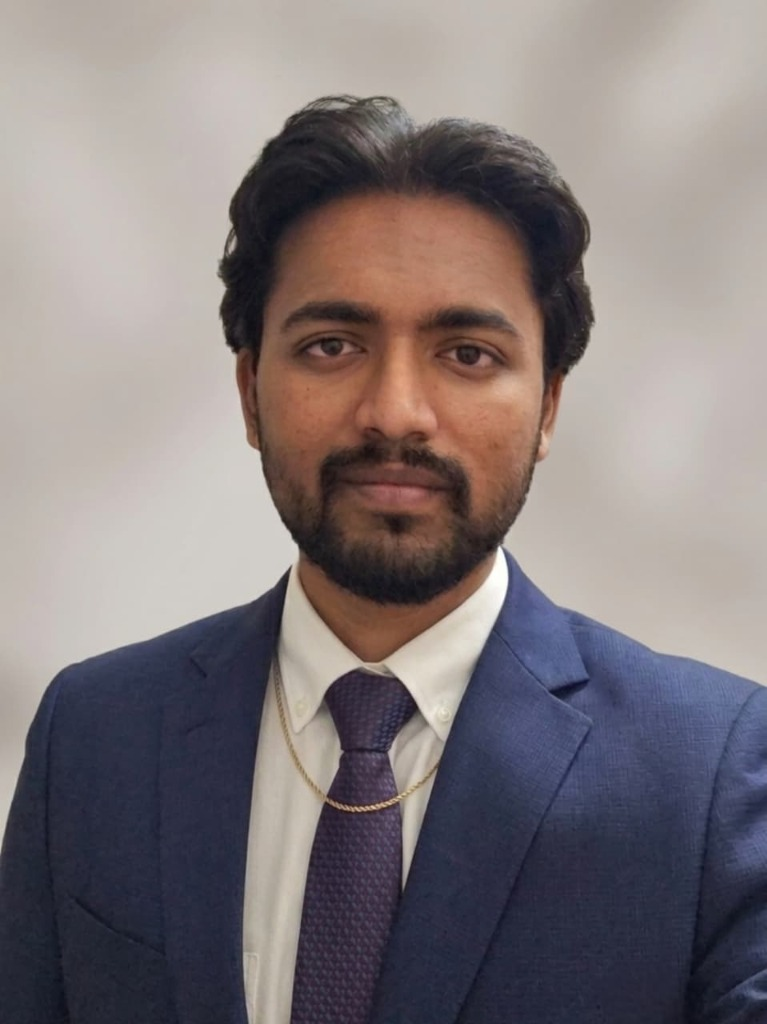
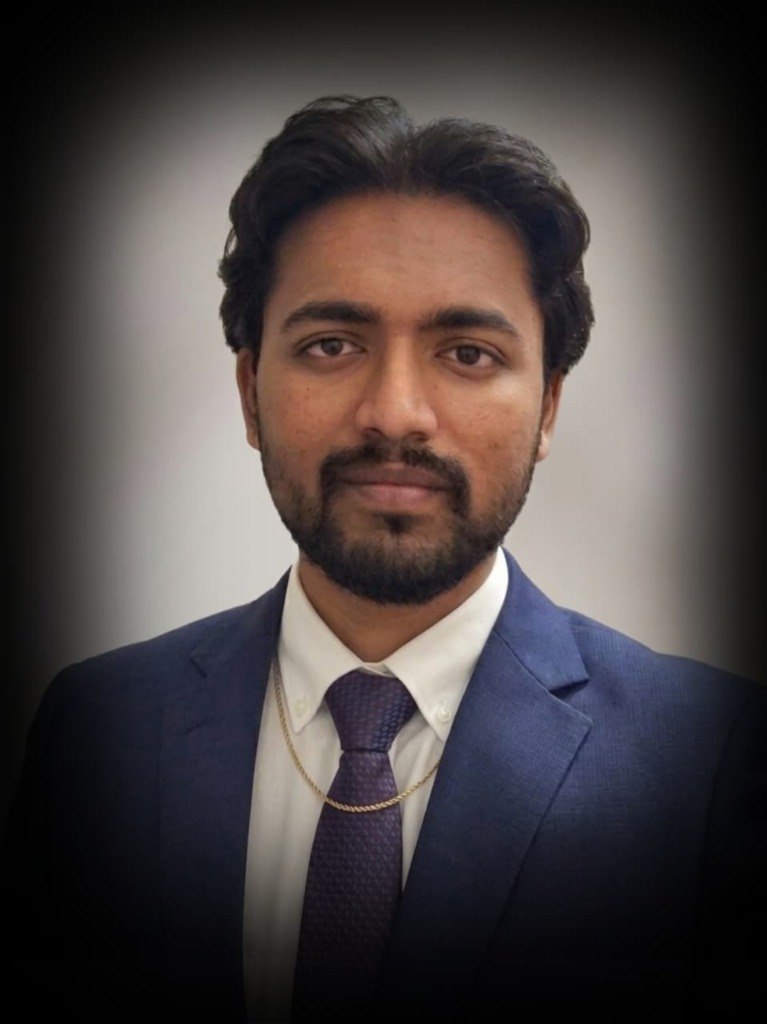
feat: replace portrait with user custom vignetted image and apply green infrared effects

diff --git a/css/style.css b/css/style.css
@@ -662,17 +662,17 @@ button { cursor: pointer; font-family: inherit; }
   transform: translateX(0) scale(1);
 }
 
-/* Inset vignette centered around face & body edges — softened on sides */
+/* Edge blending overlay for the newly vignetted photo */
 .about-photo-wrap::before {
   content: '';
   position: absolute;
   inset: 0;
   border-radius: 12px;
   background: radial-gradient(
-    ellipse 61% 60% at 50% 36%,
-    transparent 24%,
-    rgba(0, 0, 0, 0.48) 54%,
-    rgba(0, 0, 0, 0.94) 86%
+    ellipse 75% 76% at 50% 36%,
+    transparent 40%,
+    rgba(0, 0, 0, 0.35) 70%,
+    rgba(0, 0, 0, 0.95) 94%
   );
   z-index: 2;
   pointer-events: none;
@@ -682,48 +682,48 @@ button { cursor: pointer; font-family: inherit; }
   width: 100%;
   display: block;
   border-radius: 12px;
-  filter: saturate(0.55) contrast(1.15) brightness(0.87);
+  filter: saturate(0.6) contrast(1.12) brightness(0.92);
   transition: transform 0.4s ease, filter 0.4s ease;
   -webkit-mask-image: radial-gradient(
-    ellipse 77% 78% at 50% 36%,
-    black 38%,
-    rgba(0, 0, 0, 0.62) 64%,
-    transparent 88%
+    ellipse 80% 82% at 50% 36%,
+    black 46%,
+    rgba(0, 0, 0, 0.6) 72%,
+    transparent 94%
   );
   mask-image: radial-gradient(
-    ellipse 77% 78% at 50% 36%,
-    black 38%,
-    rgba(0, 0, 0, 0.62) 64%,
-    transparent 88%
+    ellipse 80% 82% at 50% 36%,
+    black 46%,
+    rgba(0, 0, 0, 0.6) 72%,
+    transparent 94%
   );
 }
 
-/* Green infrared overlay — low on face, balanced along sides and top */
+/* Green infrared overlay — rich terminal glow radiating around the face */
 .about-photo-wrap::after {
   content: '';
   position: absolute;
   inset: 0;
   border-radius: 12px;
   background: radial-gradient(
-    ellipse 61% 62% at 50% 36%,
-    rgba(0, 255, 65, 0.07) 22%,
-    rgba(0, 255, 65, 0.3) 54%,
-    rgba(0, 255, 65, 0.58) 86%
+    ellipse 68% 70% at 50% 36%,
+    rgba(0, 255, 65, 0.12) 20%,
+    rgba(0, 255, 65, 0.38) 56%,
+    rgba(0, 255, 65, 0.65) 88%
   );
   mix-blend-mode: color;
   z-index: 3;
   pointer-events: none;
   -webkit-mask-image: radial-gradient(
-    ellipse 77% 78% at 50% 36%,
-    black 38%,
-    rgba(0, 0, 0, 0.62) 64%,
-    transparent 88%
+    ellipse 80% 82% at 50% 36%,
+    black 46%,
+    rgba(0, 0, 0, 0.6) 72%,
+    transparent 94%
   );
   mask-image: radial-gradient(
-    ellipse 77% 78% at 50% 36%,
-    black 38%,
-    rgba(0, 0, 0, 0.62) 64%,
-    transparent 88%
+    ellipse 80% 82% at 50% 36%,
+    black 46%,
+    rgba(0, 0, 0, 0.6) 72%,
+    transparent 94%
   );
 }
 
